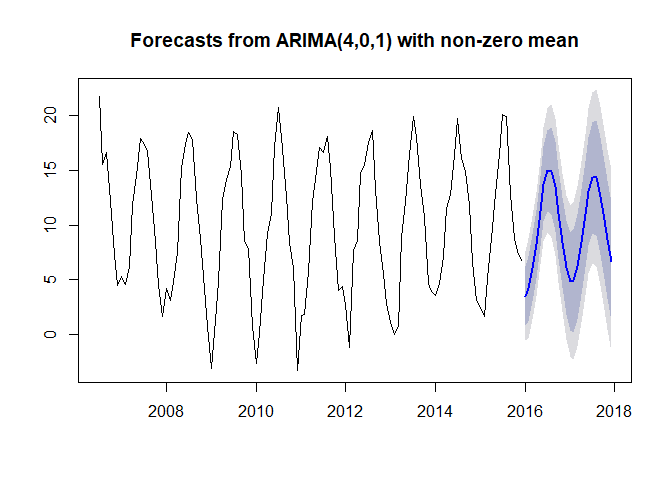
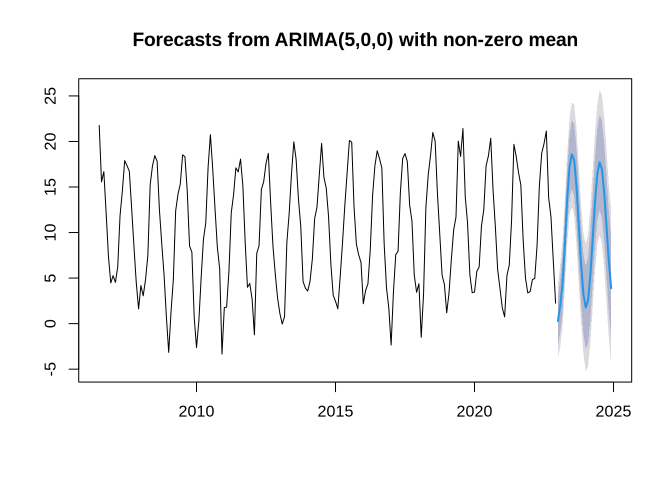
updated dataset

diff --git a/docs/units/_unit09/unit09-03_arima.md b/docs/units/_unit09/unit09-03_arima.md
@@ -33,7 +33,7 @@ head(tam)
 ### Auto-regressive and moving average models for predicting time series
 In order to predict the time series just based on its observed dynamics, an auto-regressive integrated moving average model (ARIMA) can be used. 
 ARIMA is not a diagnostic model for the identification of seasonal or other periodic components. 
-On the contrary, it requires a stationary time series, which is a prerequisite we already know is not true for the monthly mean air temperature values between July 1st 2006 and December 31st 2015. 
+On the contrary, it requires a stationary time series, which is a prerequisite we already know is not true for the monthly mean air temperature values between July 1st 2006 and December 31st 2022. 
 
 ```r
 acf(tam$Ta)
@@ -67,11 +67,11 @@ armod
 ## 
 ## Coefficients:
 ##       1        2        3        4        5        6        7        8  
-## -0.7334  -0.5075  -0.2491  -0.2513  -0.3969  -0.6473  -0.5665  -0.5402  
-##       9       10  
-## -0.2995  -0.2997  
+## -0.8578  -0.5895  -0.3433  -0.2797  -0.4231  -0.5408  -0.5385  -0.4862  
+##       9       10       11       12       13       14  
+## -0.4245  -0.2970  -0.0344   0.0963   0.1368   0.2154  
 ## 
-## Order selected 10  sigma^2 estimated as  8.501
+## Order selected 14  sigma^2 estimated as  8.14
 ```
 
 The ``ar`` function computes an AR model and iterates over the lags to be included in the linear equation, 
@@ -86,7 +86,7 @@ plot(0:20, armod$aic, type = "o")
 
 ![]({{ site.baseurl }}/assets/images/rmd_images/e09-03/unnamed-chunk-6-1.png)<!-- -->
 
-Using the Yule-Walker method for estimating the AR parameters, a maximum lag of 10 is considered. 
+Using the Yule-Walker method for estimating the AR parameters, a maximum lag of 14 is considered. 
 Although the results will be quite different if another method is used and although the following is of no use if one actually wants to use not just an AR or a MA but an ARIMA model, 
 a rule of thumb states that if
 
@@ -109,7 +109,7 @@ pacf(dTa)
 par(par_org)
 ```
 
-Nice, but pretty useless since if we change the parameter estimation method, the results look like this (17 is the optimum):
+Nice, but pretty useless since if we change the parameter estimation method, the results look like this (16 is the optimum):
 
 ```r
 armod <- ar(dTa, aic = TRUE, order.max = 20, method = "mle")
@@ -123,13 +123,11 @@ armod
 ## 
 ## Coefficients:
 ##       1        2        3        4        5        6        7        8  
-## -1.5341  -2.0412  -2.3315  -2.5476  -2.8204  -3.1504  -3.2904  -3.3489  
+## -1.5912  -2.0621  -2.3764  -2.6146  -2.8816  -3.0777  -3.1469  -3.1423  
 ##       9       10       11       12       13       14       15       16  
-## -3.1917  -3.0814  -2.6816  -2.2896  -1.8580  -1.2937  -0.8677  -0.4083  
-##      17  
-## -0.1449  
+## -3.0874  -2.9369  -2.5753  -2.1653  -1.6939  -1.0681  -0.6365  -0.2034  
 ## 
-## Order selected 17  sigma^2 estimated as  3.174
+## Order selected 16  sigma^2 estimated as  3.39
 ```
 
 
@@ -170,17 +168,17 @@ armod
 ## arima(x = tam$Ta, order = c(17, 2, 0), method = "ML")
 ## 
 ## Coefficients:
-##           ar1      ar2      ar3      ar4      ar5      ar6      ar7
-##       -1.5323  -2.0368  -2.3241  -2.5367  -2.8068  -3.1350  -3.2741
-## s.e.   0.0982   0.1783   0.2576   0.3215   0.3631   0.3981   0.4325
-##           ar8      ar9     ar10     ar11     ar12     ar13     ar14
-##       -3.3327  -3.1753  -3.0653  -2.6656  -2.2745  -1.8440  -1.2815
-## s.e.   0.4485   0.4604   0.4485   0.4321   0.3977   0.3619   0.3185
-##          ar15     ar16     ar17
-##       -0.8586  -0.4031  -0.1428
-## s.e.   0.2544   0.1781   0.0988
+##           ar1      ar2      ar3      ar4      ar5      ar6      ar7      ar8
+##       -1.6116  -2.1231  -2.4783  -2.7759  -3.0871  -3.3227  -3.4265  -3.4376
+## s.e.   0.0723   0.1355   0.1969   0.2506   0.2894   0.3210   0.3440   0.3539
+##           ar9     ar10     ar11     ar12     ar13     ar14     ar15     ar16
+##       -3.3866  -3.2361  -2.8672  -2.4386  -1.9423  -1.2944  -0.8321  -0.3545
+## s.e.   0.3556   0.3529   0.3432   0.3203   0.2887   0.2500   0.1961   0.1355
+##          ar17
+##       -0.0952
+## s.e.   0.0726
 ## 
-## sigma^2 estimated as 3.188:  log likelihood = -230.95,  aic = 495.91
+## sigma^2 estimated as 3.362:  log likelihood = -404.22,  aic = 844.44
 ```
 
 Finding the right values for an ARIMA model is not trivial. 
@@ -198,14 +196,16 @@ summary(arimamod)
 ## 
 ## Coefficients:
 ##          ar1     ar2     ar3      ar4      ar5      ar6      ma1     ma2
-##       0.3197  0.0425  0.0449  -0.1024  -0.3006  -0.3669  -1.8782  0.8872
-## s.e.  0.0985  0.0924  0.0932   0.0932   0.0935   0.1001   0.0649  0.0636
+##       0.3725  0.0823  0.0408  -0.1707  -0.3006  -0.2665  -1.9114  0.9152
+## s.e.  0.0739  0.0717  0.0715   0.0716   0.0726   0.0741   0.0376  0.0374
 ## 
-## sigma^2 estimated as 3.703:  log likelihood = -239.34,  aic = 494.67
+## sigma^2 estimated as 3.976:  log likelihood = -421.01,  aic = 860.01
 ## 
 ## Training set error measures:
-##               ME RMSE MAE MPE MAPE
-## Training set NaN  NaN NaN NaN  NaN
+##                     ME     RMSE      MAE      MPE     MAPE      MASE
+## Training set 0.2484168 1.983889 1.596457 33.56211 59.27694 0.4886506
+##                     ACF1
+## Training set -0.03297744
 ```
 
 We will not focus on optimal prediction in this example, so these results are just fine for the purpose of illustration. 
@@ -233,43 +233,40 @@ It will also include seasonal components in the ARIMA model
 
 ### Finding the right parameters for ARIMA with the auto.arima function
 The forecast package generally works on time series data of class ``ts``, which is easy to generate if you actually have a complete (i.e. gap-free) time series. The time series is defined by the values, the starting point in time (e.g. year and month), the end point in time, the frequency of observations per main time unit and the time step delta t. 
-For monthly data starting in July 2006 and ending in December 2015, the creation of a time series looks like this:
+For monthly data starting in July 2006 and ending in December 2022, the creation of a time series looks like this:
 
 ```r
-tam_ts <- ts(tam$Ta, start = c(2006, 7), end = c(2015, 12), 
+tam_ts <- ts(tam$Ta, start = c(2006, 7), end = c(2022, 12), 
              frequency = 12)
 str(tam_ts)
 ```
 
 ```
-##  Time-Series [1:114] from 2006 to 2016: 21.75 15.57 16.68 12.12 7.33 ...
+##  Time-Series [1:198] from 2006 to 2023: 21.75 15.57 16.68 12.12 7.33 ...
 ```
 
 Now we can use the ``forecast::auto.arima`` function. We will extend the iteration over p and q to 20 to be compatible with the above example but we will not include a seasonal component for the moment:
 
 ```r
-# library(forecast)
-arima_ns <- auto.arima(tam_ts, max.p = 20, max.q = 20, stationary = TRUE, seasonal=FALSE)
+arima_ns <- forecast::auto.arima(tam_ts, max.p = 20, max.q = 20, stationary = TRUE, seasonal=FALSE)
 summary(arima_ns)
 ```
 
 ```
 ## Series: tam_ts 
-## ARIMA(4,0,1) with non-zero mean 
+## ARIMA(5,0,0) with non-zero mean 
 ## 
 ## Coefficients:
-##          ar1      ar2     ar3      ar4      ma1    mean
-##       1.0643  -0.2341  0.0017  -0.3637  -0.5698  9.7454
-## s.e.  0.1083   0.1486  0.1433   0.1024   0.0816  0.1590
+##          ar1     ar2     ar3      ar4      ar5    mean
+##       0.5127  0.1307  0.0213  -0.2077  -0.4097  9.9924
+## s.e.  0.0658  0.0748  0.0751   0.0753   0.0665  0.1528
 ## 
-## sigma^2 estimated as 4.365:  log likelihood=-245.05
-## AIC=504.11   AICc=505.16   BIC=523.26
+## sigma^2 = 4.235:  log likelihood = -423.34
+## AIC=860.68   AICc=861.27   BIC=883.7
 ## 
 ## Training set error measures:
-##                      ME     RMSE      MAE      MPE     MAPE      MASE
-## Training set 0.06181951 2.033455 1.626722 57.91271 97.16354 0.8519967
-##                     ACF1
-## Training set -0.05493963
+##                     ME     RMSE      MAE     MPE    MAPE      MASE       ACF1
+## Training set 0.0246255 2.026541 1.597263 38.3537 71.5643 0.8362305 -0.0825803
 ```
 
 Actually, the ARIMA model comes with d = 0, which means that the data values are not differentiated (which is a tough choice).
@@ -283,12 +280,12 @@ tsdiag(arima_ns)
 ![]({{ site.baseurl }}/assets/images/rmd_images/e09-03/unnamed-chunk-15-1.png)<!-- -->
 
 The last plot shows test results if the residuals were independently distributed. 
-For time lags larger 4, this is may not be the case, which indicates that the ARIMA model is not really well specified.
+For time lags larger than 4, this may not be the case, which indicates that the ARIMA model is not really well specified.
 
 The forecast looks like this:
 
 ```r
-plot(forecast(arima_ns))
+plot(forecast::forecast(arima_ns))
 ```
 
 ![]({{ site.baseurl }}/assets/images/rmd_images/e09-03/unnamed-chunk-16-1.png)<!-- -->
@@ -296,27 +293,27 @@ plot(forecast(arima_ns))
 If we include a seasonal component, the results look like this:
 
 ```r
-arima_s <- auto.arima(tam_ts, max.p = 20, max.q = 20, seasonal=TRUE)
+arima_s <- forecast::auto.arima(tam_ts, max.p = 20, max.q = 20, seasonal=TRUE)
 summary(arima_s)
 ```
 
 ```
 ## Series: tam_ts 
-## ARIMA(1,0,0)(2,1,0)[12] 
+## ARIMA(1,0,0)(1,1,0)[12] with drift 
 ## 
 ## Coefficients:
-##          ar1     sar1     sar2
-##       0.1865  -0.6021  -0.3465
-## s.e.  0.0998   0.1006   0.1041
+##          ar1     sar1    drift
+##       0.1211  -0.5211  -0.0025
+## s.e.  0.0733   0.0637   0.0099
 ## 
-## sigma^2 estimated as 4.471:  log likelihood=-222.47
-## AIC=452.95   AICc=453.36   BIC=463.45
+## sigma^2 = 4.568:  log likelihood = -405.6
+## AIC=819.2   AICc=819.42   BIC=832.11
 ## 
 ## Training set error measures:
-##                      ME    RMSE      MAE       MPE     MAPE      MASE
-## Training set -0.1559868 1.97039 1.435267 -6.164647 46.61725 0.7517223
-##                      ACF1
-## Training set -0.009007497
+##                       ME    RMSE      MAE       MPE     MAPE      MASE
+## Training set -0.03883731 2.05483 1.544685 -2.425242 41.78898 0.8087037
+##                    ACF1
+## Training set 0.00160073
 ```
 
 ```r
@@ -326,7 +323,7 @@ tsdiag(arima_s)
 ![]({{ site.baseurl }}/assets/images/rmd_images/e09-03/unnamed-chunk-17-1.png)<!-- -->
 
 ```r
-plot(forecast(arima_s))
+plot(forecast::forecast(arima_s))
 ```
 
 ![]({{ site.baseurl }}/assets/images/rmd_images/e09-03/unnamed-chunk-17-2.png)<!-- -->
